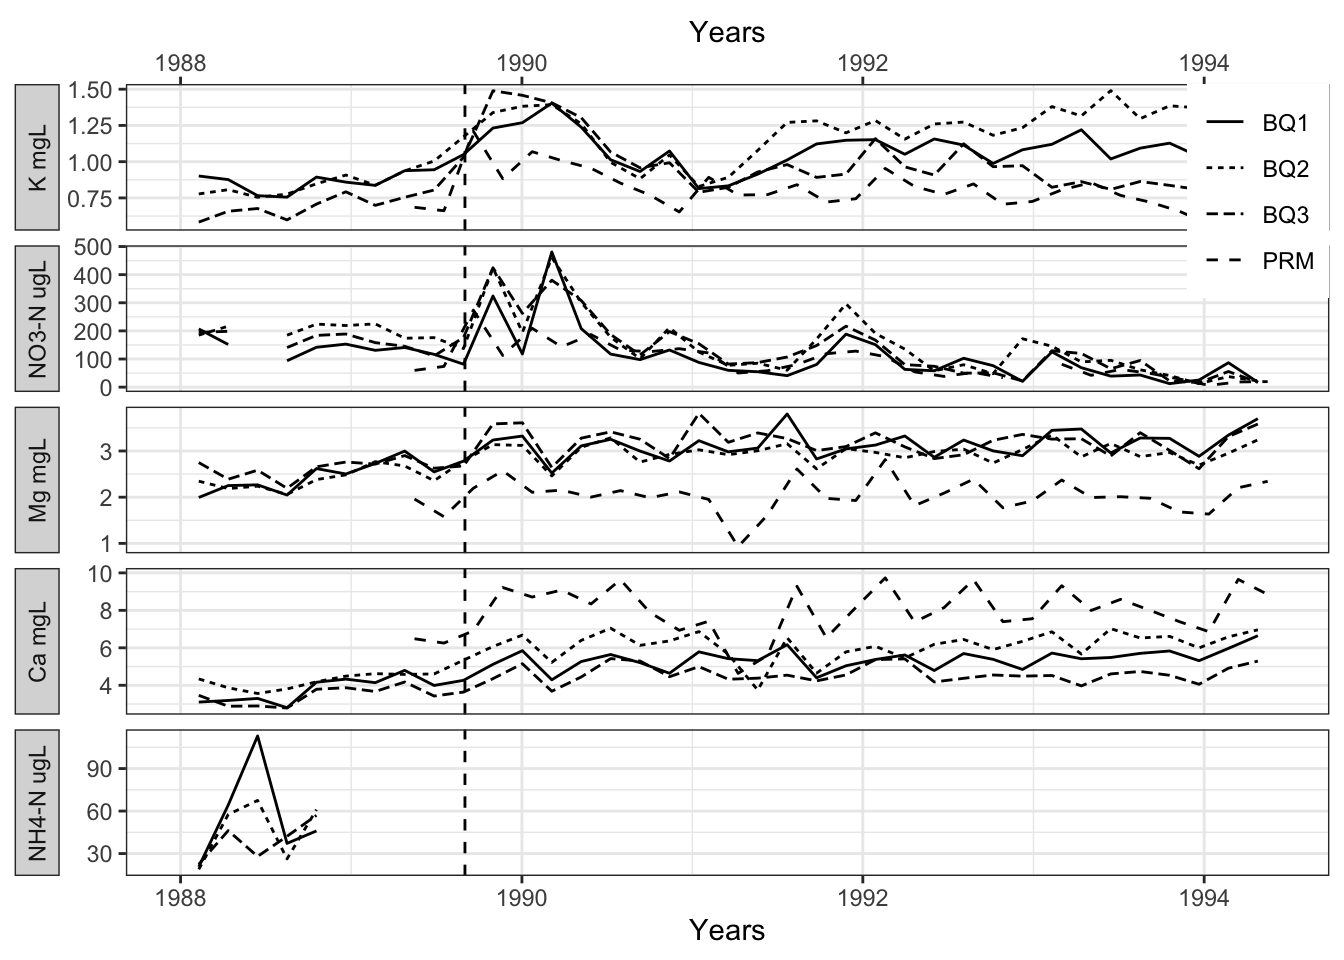
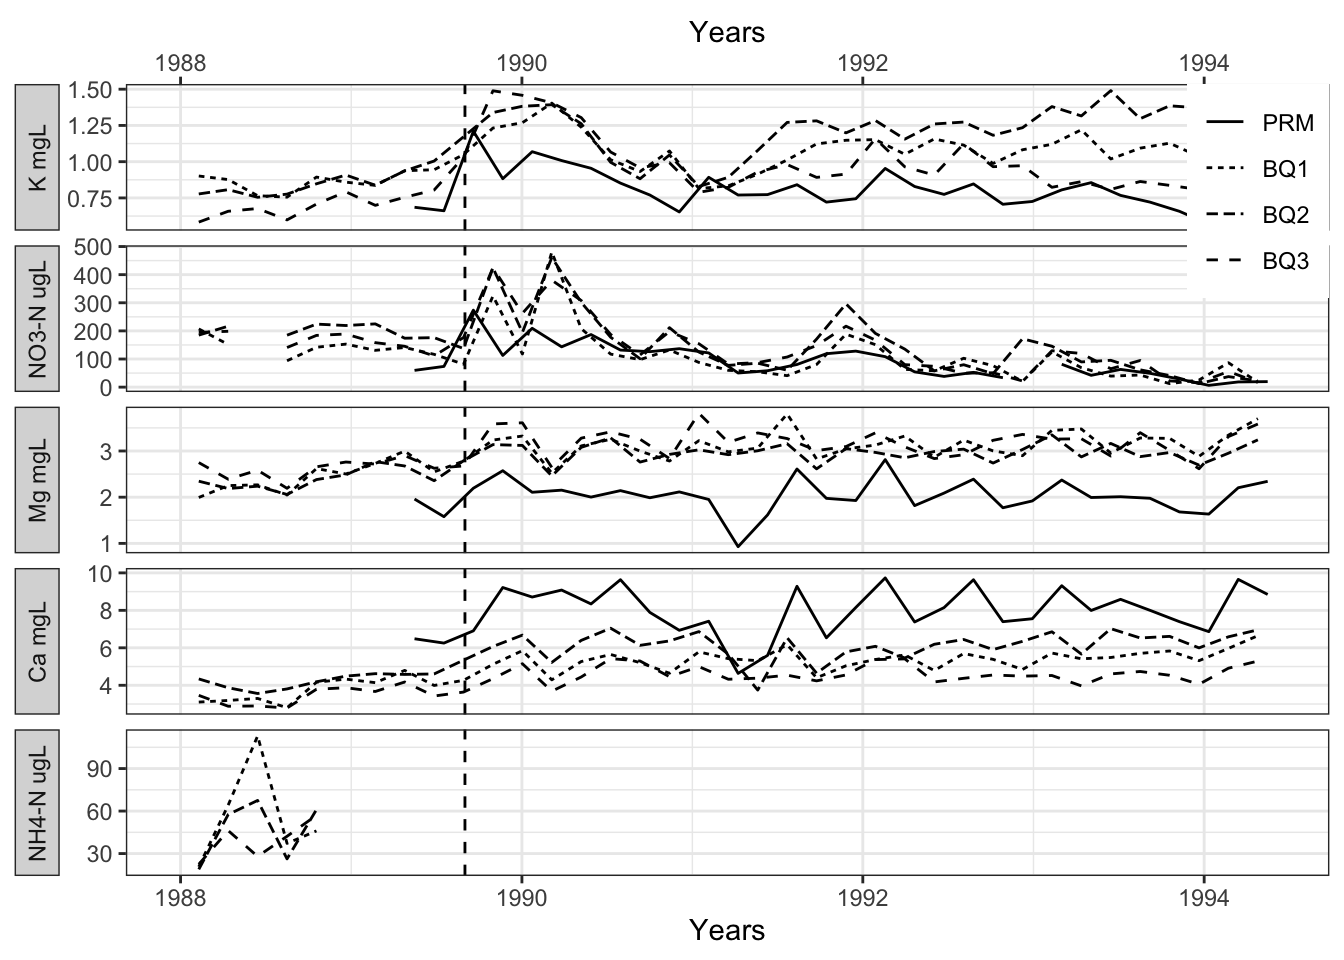
Updating paper.qmd and related docs and README.md to address issues #5 and #8

diff --git a/docs/paper.html b/docs/paper.html
@@ -57,20 +57,8 @@ ul.task-list li input[type="checkbox"] {
 <h1>EDS214 Final Project: Figure Reproducibility</h1>
 <section id="background" class="level2">
 <h2 class="anchored" data-anchor-id="background">Background</h2>
-<p>The following is the final project analysis for EDS214. The main goal for this project was to replicate Figure 3 from Schaefer et al.&nbsp;(2000) through the implementation of coding techniques learned in this class, including code automation, organization, documentation, and collaboration methods. Figure 1 below shows Figure 3 with the corresponding figure caption from the original Schaefer et al.&nbsp;(2000) publication.</p>
+<p>The following is the final project analysis for EDS214. The main goal for this project was to replicate Figure 3 from Schaefer et al.&nbsp;(2000) through the implementation of coding techniques learned in this class, including code automation, organization, documentation, and collaboration methods. Figure 1 below shows Figure 3 with the corresponding figure caption from the original Schaefer et al.&nbsp;(2000) publication. In this figure from the original publication, multiple stream sites in Puerto Rico were measured for ion concentrations before and after Hurricane Hugo in September 1989.</p>
 <div class="cell">
-<div class="cell-output cell-output-stderr">
-<pre><code>── Attaching core tidyverse packages ──────────────────────── tidyverse 2.0.0 ──
-✔ dplyr     1.2.1     ✔ readr     2.2.0
-✔ forcats   1.0.1     ✔ stringr   1.6.0
-✔ ggplot2   4.0.3     ✔ tibble    3.3.1
-✔ lubridate 1.9.5     ✔ tidyr     1.3.2
-✔ purrr     1.2.2     
-── Conflicts ────────────────────────────────────────── tidyverse_conflicts() ──
-✖ dplyr::filter() masks stats::filter()
-✖ dplyr::lag()    masks stats::lag()
-ℹ Use the conflicted package (&lt;http://conflicted.r-lib.org/&gt;) to force all conflicts to become errors</code></pre>
-</div>
 <div class="cell-output-display">
 <div>
 <figure class="figure">
@@ -79,49 +67,34 @@ ul.task-list li input[type="checkbox"] {
 </div>
 </div>
 </div>
-<p>Figure 1: The original Figure 3 from Schaefer et al.&nbsp;(2000) depicting the concentrations of 5 measured ions - K, NO<sub>3</sub>-N, Mg, Ca, and NH<sub>4</sub>-H - across 4 stream sites in Puerto Rico.</p>
+<p>Figure 1: The original Figure 3 from Schaefer et al.&nbsp;(2000) depicting the concentrations of 5 measured ions - K, NO<sub>3</sub>-N, Mg, Ca, and NH<sub>4</sub>-H - across 4 stream sites in Puerto Rico before and after Hurricane Hugo in September 1989.</p>
 </section>
 <section id="data" class="level2">
 <h2 class="anchored" data-anchor-id="data">Data</h2>
-<p>The below code generates a summary of one out the 4 data sets downloaded for this project.</p>
+<p>The four data sets downloaded from McDowell et al.&nbsp;(2024) corresponded to each of the 4 sites measured for the original Schaefer et al.&nbsp;(2000) publication: QuebradaCuenca1-Bisley.csv (BQ1), QuebradaCuenca2-Bisley.csv (BQ2), QuebradaCuenca3-Bisley.csv (BQ3), and RioMameyesPuenteRoto.csv (PRM). The fifth raw data file - LUQ LTER MDLs.csv - was only used as a reference for the unit type per ion measured, and is not directly included in this analysis.</p>
 </section>
 <section id="methods" class="level2">
 <h2 class="anchored" data-anchor-id="methods">Methods</h2>
-<p>For each site data set, the moving average was calculated across a 9 week measurement window for each of the five ions. These moving averages were then plotted in a line graph</p>
-<div class="cell">
-<div class="cell-output cell-output-stderr">
-<pre><code>Rows: 177 Columns: 7
-── Column specification ────────────────────────────────────────────────────────
-Delimiter: ","
-chr  (1): Site_ID
-dbl  (5): k_mgL, mg_mgL, no3-n_ugL, ca_mgL, nh4-n_ugL
-date (1): window_start
-
-ℹ Use `spec()` to retrieve the full column specification for this data.
-ℹ Specify the column types or set `show_col_types = FALSE` to quiet this message.</code></pre>
-</div>
-</div>
+<p>For each site data set, the moving average was calculated across a 9 week measurement window for each of the five ions - K (mg/L), NO<sub>3</sub>-N (ug/L), Mg (mg/L), Ca (mg/L), and NH<sub>4</sub>-H (ug/L). The resulting site data sets with this ion data transformation were combined into a single combined “smoothed” data set. This smoothed data set was then filtered to only include measurements taken in years relevant to the original Schaefer et al.&nbsp;(2000) Figure 3 - 1988 to 1995 - and the Sample ID column was updated to use “PRM” for the RioMameyesPuenteRoto.csv data.</p>
 </section>
 <section id="results" class="level2">
 <h2 class="anchored" data-anchor-id="results">Results</h2>
+<p>The ion concentration moving averages from the filtered, smoothed, and combined data set were plotted in Figure 2 below as a line graph. Each plot row is a single ion - K (mg/L), NO<sub>3</sub>-N (ug/L), Mg (mg/L), Ca (mg/L), and NH<sub>4</sub>-H (ug/L) - with the data from each site denoted by different line types - PRM, BQ1, BQ2, and BQ3. Hurricane Hugo - which occurred in September 1989 - is marked by a vertical dashed line across all ion plots. The reproduced figure depicted in Figure 2 is mostly identical to the original Schaefer et al.&nbsp;(2000) Figure 3 in terms of design and format, and most of the data appears similar in shape according to the line plots. The NH<sub>4</sub>-H data for the plotted sites - downloaded from McDowell et al.&nbsp;(2024) - is more sparse compared to the NH<sub>4</sub>-H data the Schaefer et al.&nbsp;(2000) publication likely used.</p>
 <div class="cell">
-<div class="cell-output cell-output-stderr">
-<pre><code>Warning: Removed 306 rows containing missing values or values outside the scale range
-(`geom_line()`).</code></pre>
-</div>
 <div class="cell-output-display">
 <div>
 <figure class="figure">
-<p><img src="paper_files/figure-html/unnamed-chunk-3-1.png" class="img-fluid figure-img" width="672"></p>
+<p><img src="paper_files/figure-html/unnamed-chunk-4-1.png" class="img-fluid figure-img" width="672"></p>
 </figure>
 </div>
 </div>
 </div>
-<p>Figure 2: Replicated version of Schaefer et al.&nbsp;(2000) Figure 3 generated for this project.</p>
+<p>Figure 2: Replicated version of Schaefer et al.&nbsp;(2000) Figure 3 generated for this project. Each ion - K (mg/L), NO<sub>3</sub>-N (ug/L), Mg (mg/L), Ca (mg/L), and NH<sub>4</sub>-H (ug/L) - has an independent plot, while each site - PRM, BQ1, BQ2, and BQ3 - is represented on each plot by a specific line type. Hurricane Hugo in 1989 is marked with a dashed vertical line.</p>
 </section>
 <section id="references" class="level2">
 <h2 class="anchored" data-anchor-id="references">References</h2>
-<p>Schaefer, D.A.; McDowell, W.H.; Scatena, F.N., and Asbury, C.E. (2000): Effects of hurricane disturbance on stream water concentrations and fluxes in eight tropical forest watersheds of the Luquillo Experimental Forest, Puerto Rico. Journal of Tropical Ecology.</p>
+<p>McDowell, William H., and USDA Forest Service. International Institute Of Tropical Forestry (IITF). 2024. “Chemistry of Stream Water from the Luquillo Mountains.” Environmental Data Initiative. https://doi.org/10.6073/PASTA/F31349BEBDC304F758718F4798D25458.</p>
+<p>Schaefer, Douglas. A., William H. McDowell, Fredrick N. Scatena, and Clyde E. Asbury. 2000. “Effects of Hurricane Disturbance on Stream Water Concentrations and Fluxes in Eight Tropical Forest Watersheds of the Luquillo Experimental Forest, Puerto Rico.” <em>Journal of Tropical Ecology</em> 16 (2): 189–207. https://doi.org/10.1017/s0266467400001358.</p>
 </section>
 </section>
 

diff --git a/README.md b/README.md
@@ -11,17 +11,24 @@ This repository contains scripts, documentation, and data to recreate Figure 3 f
 | File/Directory Name | Description |
 | ------------------- | ------------------- |
 | [data/](data/) | Directory containing all raw data csv files for this project. |
-| [docs/](docs/) | Directory containing all html files for this project, generated from paper.qmd. |
+| [docs/](docs/) | Directory containing all html files and rendering files for this project, generated from paper.qmd. |
 | [figs/](figs/) | Directory containing all images for this project. |
-| [paper/](paper/) | Directory containing the cited publication for this project, Schaefer et al. (2000), and the paper.qmd file for this project. |
+| [output/](output/) | Directory containing all intermediate data outputs generated by 1_clean_data.R for this project. |
+| [paper/](paper/) | Directory containing the cited publication for this project, Schaefer et al. (2000), the paper.qmd file for this project, and the related yml file. |
 | [R/](R/) | Directory containing all utility R scripts for this project. |
 | [scratch/](scratch/) | Directory containing all scratch code and documents for this project. |
+| [1_clean_data.R](1_clean_data.R) | R script used to clean raw data and output intermediate data file to output/. |
+| [peer_assessment.md](peer_assessment.md) | Markdown file for the peer-assessment on 27AUG2026. |
 | [self_assessment.md](self_assessment.md) | Markdown file for the self-assessment on 27AUG2026. |
 
 ## Current Contributors:
 
+Michaela Dennis - [GitHub] (<https://github.com/michaeladennis>)
+Priscilla Pierce - [GitHub] (<https://github.com/pr-scilla>)
 Sophia Soriano - [GitHub](<https://github.com/ssoriano22>), [LinkedIn](<https://www.linkedin.com/in/smsoriano22>)
 
 ## References:
+
+McDowell, William H., and USDA Forest Service. International Institute Of Tropical Forestry (IITF). 2024. “Chemistry of Stream Water from the Luquillo Mountains.” Environmental Data Initiative. https://doi.org/10.6073/PASTA/F31349BEBDC304F758718F4798D25458.
 
 Schaefer, D.A.; McDowell, W.H.; Scatena, F.N., and Asbury, C.E. (2000): Effects of hurricane disturbance on stream water concentrations and fluxes in eight tropical forest watersheds of the Luquillo Experimental Forest, Puerto Rico. _Journal of Tropical Ecology_.
